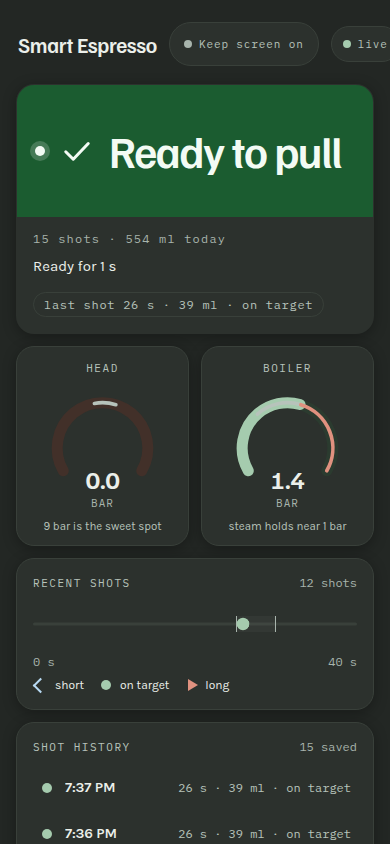
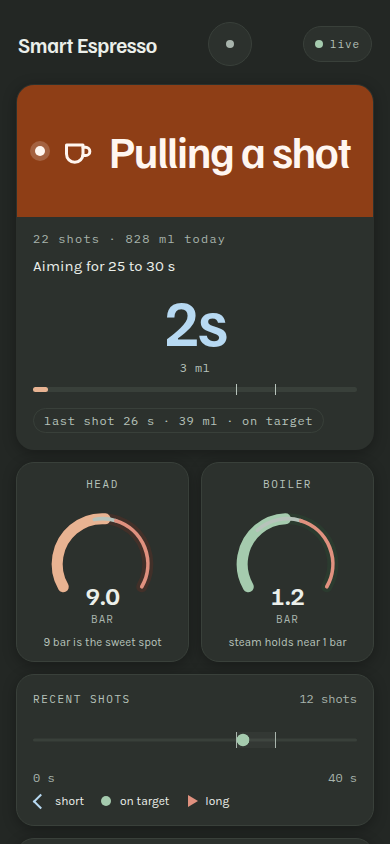
fix: keep the connection pill inside a 390 px header
Below 480 px the keep-screen control is the dot only, with the same
phrase as its accessible name, so the live pill is no longer pushed
off the edge.

diff --git a/smart_espresso/web/static/index.html b/smart_espresso/web/static/index.html
@@ -229,6 +229,28 @@
     header h1 { white-space: nowrap; }
   }
 
+  /* Below about 480 px the words "Keep screen on" plus the connection
+     pill no longer fit beside the title. The toggle keeps its dot and
+     the same phrase as its accessible name. */
+  @media (max-width: 480px) {
+    #wake-text {
+      position: absolute;
+      width: 1px;
+      height: 1px;
+      overflow: hidden;
+      clip: rect(0, 0, 0, 0);
+    }
+    #wake {
+      position: relative;
+      flex: none;
+      width: 44px;
+      justify-content: center;
+      padding-left: 0;
+      padding-right: 0;
+    }
+    header > .live { flex: none; }
+  }
+
   @media (min-width: 1000px) {
     header { flex-wrap: wrap; }
     header h1 { margin-right: auto; }
@@ -1140,8 +1162,8 @@
 <header>
   <h1>Smart Espresso</h1>
   <button class="live" id="wake" type="button" title="Keep screen on"
-          aria-pressed="false" hidden><span class="dot"></span><span
-      id="wake-text">Keep screen on</span></button>
+          aria-label="Keep screen on" aria-pressed="false" hidden><span
+      class="dot"></span><span id="wake-text">Keep screen on</span></button>
   <!-- Connecting, not live: the shell is often cached and painted before
        /api/status has ever answered. A green "live" here is a lie. -->
   <div class="live" role="status"><span class="dot off" id="dot"></span><span id="conn">connecting…</span></div>

diff --git a/smart_espresso/web/static/sw.js b/smart_espresso/web/static/sw.js
@@ -2,7 +2,7 @@
 // still opens (slightly stale, clearly marked so by the page itself) when
 // the machine's server hiccups. Sensor data is never cached: /api/* always
 // goes to the network.
-const CACHE = 'espresso-shell-v12';
+const CACHE = 'espresso-shell-v13';
 const SHELL = [
   '/',
   '/dashboard_logic.js',

diff --git a/smart_espresso/test/test_dashboard_logic.py b/smart_espresso/test/test_dashboard_logic.py
@@ -374,3 +374,14 @@ class TestPhoneHeader:
         # One sentence, written to both slots. No second wording.
         assert "getElementById('tagline-card').textContent = text" in self.page
         assert "getElementById('tagline').textContent = text" in self.page
+
+    def test_wake_words_leave_the_header_row_below_480px(self):
+        # The full "Keep screen on" pill pushes "live" off a 390 px screen.
+        assert 'aria-label="Keep screen on"' in self.page
+        assert ">Keep screen on<" in self.page
+        narrow_at = self.page.find("@media (max-width: 480px)")
+        assert narrow_at > 0
+        narrow = self.page[narrow_at : narrow_at + 500]
+        assert "#wake-text" in narrow
+        assert "position: absolute" in narrow
+        assert "width: 44px" in narrow
